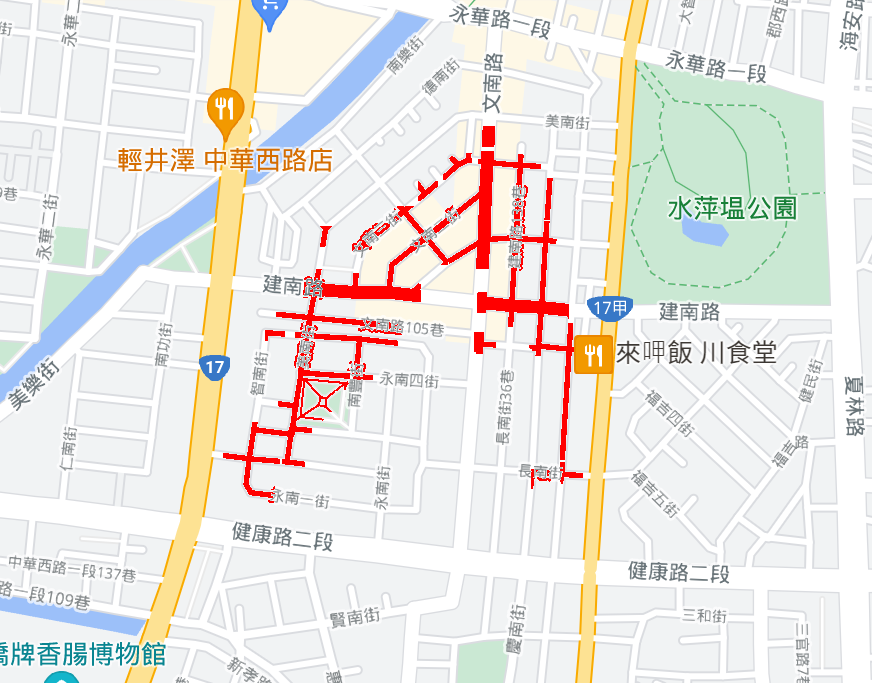
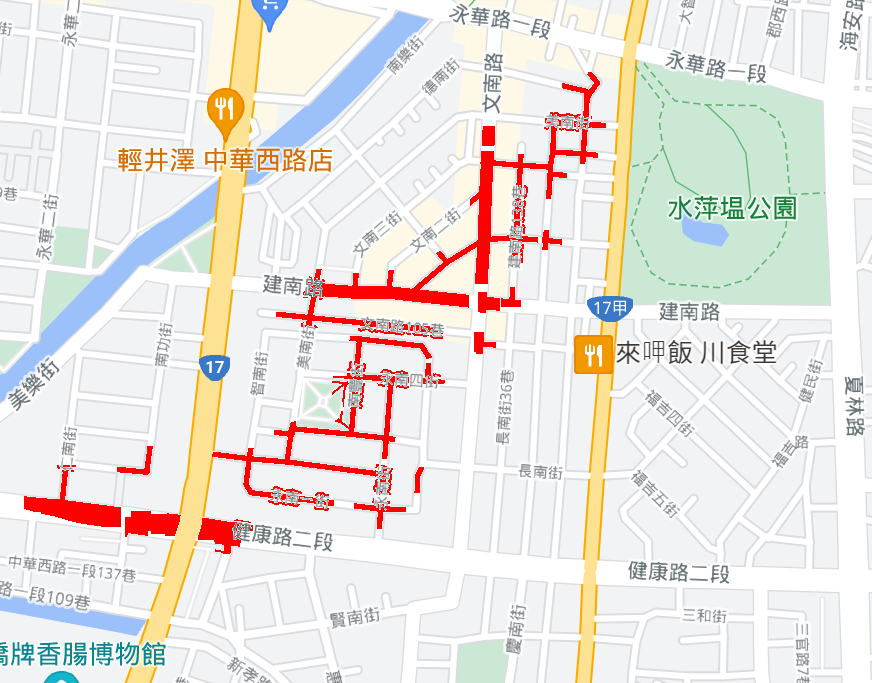
make binary finished

diff --git a/convert_binary/make_binary.py b/convert_binary/make_binary.py
@@ -1,0 +1,80 @@
+import numpy as np
+from PIL import Image
+import sys
+import glob, os
+import argparse
+import shutil
+
+np.set_printoptions(threshold=sys.maxsize)
+
+
+def mapinner(array):
+    for a in array:
+        if a < 250: # if one of RGB less than 250, it should not be white.
+            return False # the pixel is part of the road.
+    return True
+
+def drawinner(array):
+    for a in array:
+        if a < 250:
+            return True # the pixel is part of the draw.
+    return False
+
+
+def change(image_array, map_draw_flag, binary_flag, output):
+    """
+    if map_draw_flag = 1, pass map array; otherwise, pass draw array.
+    if binary_flag = 1, show binary result; otherwise, show red green result.
+    """
+    for i in range(0, image_array.shape[0]):
+        for j in range(0, image_array.shape[1]):
+            if map_draw_flag:
+                if mapinner(image_array[i][j]):
+                    output[i][j][0] = 1 if binary_flag == 1 else 255
+            else:
+                if drawinner(image_array[i][j]):
+                    output[i][j][1] = 1 if binary_flag == 1 else 255
+
+if __name__ == '__main__':
+
+    parser = argparse.ArgumentParser()
+    parser.add_argument('--binary', default = '1')
+    parser.add_argument('--pairwise', default = '1')
+    parser.add_argument('--base', default = '1')
+    args = parser.parse_args()
+
+    i = 0
+    size = (500, 500, 3) # output image size
+
+    # pairwise generate binary picture
+    if args.pairwise == "1":
+        for mapfile, drawfile in zip(os.listdir("map"), os.listdir("draw")):
+            if mapfile.endswith(".png") and drawfile.endswith(".png"):
+                map_path = os.path.join("map/", mapfile)
+                draw_path = os.path.join("draw/", drawfile)
+                map_array = np.array(Image.open(map_path).resize(size[0:2]))
+                draw_array = np.array(Image.open(draw_path).resize(size[0:2]))
+                output = np.zeros(size).astype(np.uint8)
+                change(map_array, 1, int(args.binary), output)
+                change(draw_array, 0, int(args.binary), output)
+                image = Image.fromarray(output)
+                image.save(str(i+int(args.base))+".png")
+                shutil.move(str(i+int(args.base))+".png", "training_data/input");
+                i += 1
+    else:
+        for mapfile in os.listdir("map"):
+            if mapfile.endswith(".png"):
+                map_path = os.path.join("map/", mapfile)
+                map_array = np.array(Image.open(map_path).resize(size[0:2]))
+                for drawfile in os.listdir("draw"):
+                    if drawfile.endswith(".png"):
+                        draw_path = os.path.join("draw/", drawfile)
+                        draw_array = np.array(Image.open(draw_path).resize(size[0:2]))
+                        output = np.zeros(size).astype(np.uint8)
+                        change(map_array, 1, int(args.binary), output)
+                        change(draw_array, 0, int(args.binary), output)
+                        image = Image.fromarray(output)
+                        image.save(str(i+int(args.base))+".png")
+                        shutil.move(str(i+int(args.base))+".png", "training_data/input");
+                        i += 1
+                

diff --git a/fit_map.py b/fit_map.py
@@ -73,7 +73,7 @@ def get_sequence(output, draw_road, detect_block):
     seq = [draw_road.pop(0)]
     a = 0
     it = 0
-    max_iter = 10000
+    max_iter = 500
     while len(draw_road) > 0 and it < max_iter:
         it += 1
         print(len(draw_road))
@@ -299,7 +299,7 @@ def change(output, img_arr, f):
                     # img_arr[i][j] = np.array([255, 0, 0])
 
 
-def fit_origin(output, map_arr, detect_block):
+def fit_origin(output, map_arr, out_arr, detect_block):
     for i in range(0, len(output)):
         for j in range(0, len(output[0])):
             if output[i][j][0] == 255 and output[i][j][1] == 255:
@@ -312,9 +312,17 @@ def fit_origin(output, map_arr, detect_block):
                                 flag = False
                         if flag:
                             map_arr[k][l] = [255, 0, 0]
+                            out_arr[k][l] = [255, 0, 0]
 
+def fix_size(arr):
+    tmp = np.array([])
+    if len(arr[0][0]) == 4:
+        for i in range(0, len(arr)):
+            for j in range(0, len(arr[0])):
+                tmp = np.append(tmp, np.delete(arr[i][j], 3, 0))
+        arr = np.resize(tmp, (len(arr), len(arr[0])))
 
-def map_draw_fit(map_arr, draw_arr):
+def map_draw_fit(map_arr, draw_arr, out_arr):
     detect_block = 20
     output = np.zeros(map_arr.shape).astype(np.uint8)
     change(output, map_arr, 1)
@@ -331,7 +339,7 @@ def map_draw_fit(map_arr, draw_arr):
     get_road(road, output, 1)
     seq = get_sequence(output, road, detect_block)
     fitted = fit_on_map(output_map, seq)
-    fit_origin(output_map, map_arr, 10)    
+    fit_origin(output_map, map_arr, out_arr, 10)    
 
     return output_map
 
@@ -344,17 +352,22 @@ if __name__ == '__main__':
     args = parser.parse_args()
 
     cur_path = os.path.dirname(__file__)
-    map_path = os.path.relpath("input/map/" + args.map, cur_path)
-    draw_path = os.path.relpath("input/draw/" + args.draw, cur_path)
-    output_path = os.path.relpath("output/" + args.output, cur_path)
+    map_path = os.path.relpath("./input/map/" + args.map, cur_path)
+    draw_path = os.path.relpath("./input/draw/" + args.draw, cur_path)
+    output_path = os.path.relpath("./output/" + args.output, cur_path)
 
     img_map = Image.open(map_path)
     map_size = img_map.size
     map_arr = np.array(img_map)
+    fix_size(map_arr)
     draw_arr = np.array(Image.open(draw_path).resize(map_size))
-    output = map_draw_fit(map_arr, draw_arr)
+    fix_size(draw_arr)
+    binary_arr = np.zeros(map_arr.shape).astype(np.uint8)
+    output = map_draw_fit(map_arr, draw_arr, binary_arr)
     img = Image.fromarray(map_arr)
     img.save(output_path)
+    img = Image.fromarray(binary_arr)
+    img.save("convert_binary/training_data/output/new_output.png")
 
     """
     for i in range(0, len(seq)):
